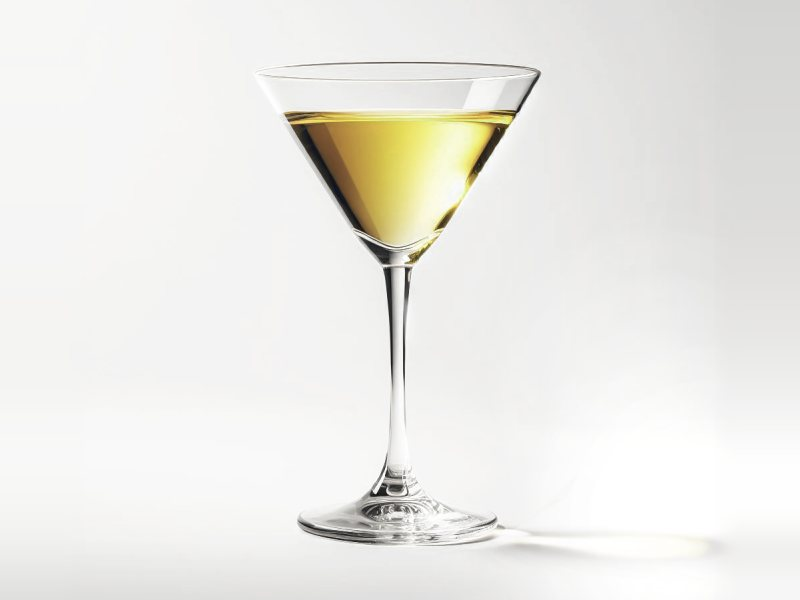
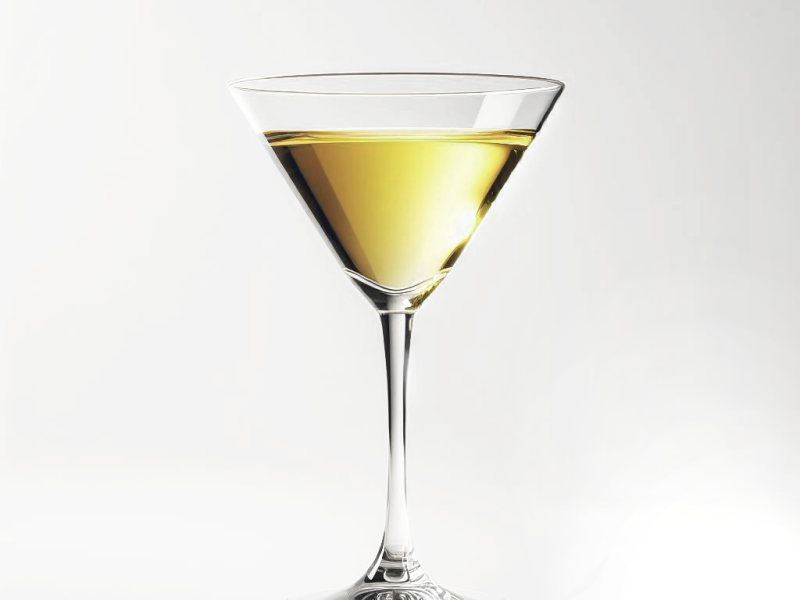
Photos retouchées, kirsch en remplaçant du marasquin (v0.38.1)
- Recadrage : on garde le haut et on coupe le bas plutôt que de générer les côtés ;
  côtés complétés seulement sur fond uni (Air Mail, Bellini, Brandy Crusta, Aperol Spritz)
  et un peu sur l'Aguapanela.
- Barracuda posé sur un fond papier turquoise, verre rendu transparent.
- Nouvelle photo d'Aguapanela (crédit à renseigner) ; photo Agua de piña (Whitney, CC BY 2.0).
- Brown Derby validé ('ok').
- Ingrédient Kirsch ; il remplace le marasquin dans les recettes, fiche du marasquin complétée.

Claude-Session: https://claude.ai/code/session_01MGrXtKPwEujzpoV9NF5CqB

diff --git a/infos.js b/infos.js
@@ -17,6 +17,7 @@ const INFOS = {
   armagnac: ["Eau-de-vie de vin du Sud-Ouest de la France (Gascogne), généralement distillée une seule fois, plus rustique que le cognac.", "Se garde très longtemps, bouteille fermée, debout, à l'abri de la lumière et de la chaleur.", "Plus charpenté et fruité que le cognac, qu'il remplace très bien, notamment dans les boissons chaudes et les cocktails de fin de repas."],
   calvados: ["Eau-de-vie de cidre (ou de poiré) de Normandie, vieillie en fût.", "Se garde très longtemps, bouteille fermée, debout, à l'abri de la lumière et de la chaleur.", "Goût de pomme cuite et de boisé. Réchauffe les cocktails d'automne et se marie à la cannelle, au miel, au citron et au gin."],
   pisco: ["Eau-de-vie de raisin du Pérou et du Chili, non vieillie ou très peu.", "Se garde très longtemps, bouteille fermée, debout, à l'abri de la lumière et de la chaleur.", "Floral, fruité et vif, avec un parfum de raisin frais. Excellent dans les sours, avec du citron vert et du blanc d'œuf."],
+  kirsch: ["Eau-de-vie de cerises (souvent griottes) distillées avec leurs noyaux, d'Alsace, de Franche-Comté, de Forêt-Noire ou de Suisse. Incolore et sèche, sans sucre ajouté.", OPEN_SPIRIT, "Cerise et noyau, sec et puissant. Le meilleur remplaçant du marasquin : en mettre autant et ajouter un trait de sirop de sucre pour compenser. Un peu suffit aussi à relever un cocktail au gin ou au cognac."],
   grappa: ["Eau-de-vie italienne issue du marc de raisin (peaux et pépins qui restent après le pressage du vin).", OPEN_SPIRIT, "Goût marqué, parfois herbacé. S'emploie avec parcimonie : en rinçage de verre ou en remplacement d'une partie d'un autre spiritueux."],
   gin: ["Spiritueux de céréales aromatisé au genièvre (baies de genévrier) et à d'autres plantes comme la coriandre ou les agrumes. Le style « London dry » est sec, sans sucre ajouté, et se produit dans le monde entier.", "Se garde très longtemps, bouteille fermée, debout, à l'abri de la lumière et de la chaleur.", "Sa fraîcheur de genièvre soutient les agrumes, les amers et les vermouths. Un London dry, sec et classique, convient à presque toutes les recettes."],
   "gin-old-tom": ["Style de gin ancien, légèrement sucré, entre le London dry et le genièvre néerlandais. Redevenu à la mode depuis les années 2010.", "Se garde très longtemps, bouteille fermée, debout, à l'abri de la lumière et de la chaleur.", "Plus rond et légèrement sucré qu'un London dry. Adoucit les cocktails au gin sans sirop supplémentaire."],
@@ -56,7 +57,7 @@ const INFOS = {
   "creme-cassis": ["Liqueur de cassis, spécialité de Dijon (Bourgogne), riche en sucre.", "Une fois ouverte, au réfrigérateur : 6 mois à 1 an. Peu alcoolisée (15 à 20 %), elle s'oxyde, brunit et perd son goût de fruit frais.", "Donne couleur et notes de baies noires. Se marie au vin blanc, aux bulles et au vermouth."],
   "liqueur-framboise": ["Liqueur de framboises. Le Chambord, la plus connue, utilise des framboises noires (Val de Loire).", "Une fois ouverte, au frais et à consommer dans l'année : le goût de fruit frais s'oxyde assez vite.", "Fruitée et sucrée. Va bien avec la vodka, l'ananas et les bulles."],
   "sloe-gin": ["Liqueur anglaise de gin infusé de prunelles (fruit du prunellier) et sucré.", "Plusieurs années bouteille fermée. Ouvert, à consommer dans les 1 à 2 ans, à l'abri de la lumière : le fruit s'atténue peu à peu.", "Acidulé, amandé, rouge rubis. S'emploie comme une liqueur de fruits rouges, souvent avec du citron."],
-  marasquin: ["Liqueur de cerises marasques, d'Italie ou de Croatie, incolore et légèrement amère.", "Plusieurs années, bouteille fermée et à l'abri de la lumière. Il s'utilise par petites doses : une bouteille dure longtemps sans souci.", "Cerise et amande amère, peu sucré mais très parfumé. Une petite dose suffit, sinon il domine."],
+  marasquin: ["Liqueur de cerises marasques, d'Italie ou de Croatie, incolore et légèrement amère.", "Plusieurs années, bouteille fermée et à l'abri de la lumière. Il s'utilise par petites doses : une bouteille dure longtemps sans souci.", "Cerise et amande amère, peu sucré mais très parfumé. Une petite dose suffit, sinon il domine. À défaut, le kirsch (avec un trait de sirop) est le remplaçant le plus proche ; une liqueur de cerise, plus sucrée et rouge, change la couleur du cocktail."],
   "liqueur-cerise": ["Liqueur de cerises, très variable selon l'origine (Danemark, Alsace, Italie).", "Une fois ouverte, au frais et à l'abri de la lumière : 1 à 2 ans. Son goût de fruit s'atténue avec le temps.", "Cerise et amande, ronde et sucrée. Peut remplacer le marasquin à petite dose, en sucrant un peu plus."],
   "liqueur-abricot": ["Liqueur d'abricots, faite à base de fruits ou d'eau-de-vie d'abricot.", "Une fois ouverte, au frais et à l'abri de la lumière : environ 1 an pour garder son parfum de fruit.", "Fruitée et florale. Adoucit les cocktails au gin ou au calvados."],
   "liqueur-peche": ["Liqueur de pêche, parfois de pêche blanche ou de pêche de vigne.", "Une fois ouverte, au frais et à l'abri de la lumière : environ 1 an pour garder son parfum de fruit.", "Fruitée et sucrée, pour les cocktails d'été. Renforce le goût d'une purée de pêche."],

diff --git a/data.js b/data.js
@@ -2,7 +2,7 @@
    Les étapes sont rédigées pour Zeste. */
 'use strict';
 
-const DATA_VERSION = 24;
+const DATA_VERSION = 25;
 
 /* Familles du bar, dans l'ordre d'affichage. Les sous-familles s'affichent en volets dépliables. */
 const FAMILIES = [
@@ -28,6 +28,7 @@ const INGREDIENTS = [
   ['calvados', 'Calvados', 'Eau-de-vie de pomme', 'Spiritueux', 'Brandy & cognac', 40],
   ['pisco', 'Pisco', 'Pisco', 'Spiritueux', 'Brandy & cognac', 40],
   ['grappa', 'Grappa', 'Grappa', 'Spiritueux', 'Brandy & cognac', 40],
+  ['kirsch', 'Kirsch', 'Kirsch', 'Spiritueux', 'Brandy & cognac', 40],
   ['gin', 'Gin London dry', 'Gin', 'Spiritueux', 'Gin', 40],
   ['gin-old-tom', 'Gin Old Tom', 'Gin', 'Spiritueux', 'Gin', 40],
   ['gin-contemporain', 'Gin contemporain', 'Gin', 'Spiritueux', 'Gin', 40],
@@ -1261,6 +1262,8 @@ const RECIPE_EDITS = {
   }
 };
 Object.keys(RECIPE_EDITS).forEach(id => { const r = RECIPES.find(x => x.id === id); if (r) Object.assign(r, RECIPE_EDITS[id]); });
+/* Le kirsch, sec et marqué par le noyau, est le meilleur remplaçant du marasquin (avec un trait de sirop pour le sucre). */
+RECIPES.forEach(r => r.ings.forEach(i => { if (i.id === 'marasquin' && !i.alts.includes('kirsch')) i.alts = [...i.alts, 'kirsch']; }));
 
 /* Photos des recettes : fichiers du dossier photos/ (4:3, 800 × 600, JPEG).
    Une recette sans entrée garde l'illustration du verre. */
@@ -1275,6 +1278,7 @@ const PHOTOS = {
   'mauresque-pomme': 'photos/mauresque-pomme.jpg',
   'adonis': 'photos/adonis.jpg',
   'agua-pepino': 'photos/agua-pepino.jpg',
+  'agua-pina': 'photos/agua-pina.jpg',
   'agua-sandia': 'photos/agua-sandia.jpg',
   'aguapanela': 'photos/aguapanela.jpg',
   'air-mail': 'photos/air-mail.jpg',
@@ -1337,8 +1341,8 @@ RECIPES.forEach(r => { if (PHOTOS[r.id]) r.photo = PHOTOS[r.id]; });
 const PHOTO_CREDITS = {
   'adonis': { by: 'Cocktailmarler', lic: 'CC BY-SA 4.0', url: 'https://commons.wikimedia.org/wiki/File:Adonis_Cocktail.JPG' },
   'agua-pepino': { by: 'T.Tseng', lic: 'CC BY 2.0', url: 'https://www.flickr.com/photos/68147320@N02/30255982132/' },
+  'agua-pina': { by: 'Whitney', lic: 'CC BY 2.0', url: 'https://flic.kr/p/8nwAXr' },
   'agua-sandia': { by: 'Joy', lic: 'CC BY 2.0', url: 'https://the-cooking-of-joy.blogspot.com/2014/07/watermelon-agua-fresca-and-popsicles.html' },
-  'aguapanela': { by: 'Mappa Stellae', lic: 'CC BY-SA 4.0', url: 'https://commons.wikimedia.org/wiki/File:Aguapanela_variante_fr%C3%ADa_con_lim%C3%B3n_verde.jpg' },
   'air-mail': { by: 'Matthias Friedlein', lic: 'CC BY-SA 4.0', url: 'https://commons.wikimedia.org/wiki/File:Air_Mail_Cocktail.png' },
   'alexander': { by: 'Jason Lam', lic: 'CC BY-SA 2.0', url: 'https://www.mightysweet.com/2008/10/17/take-on-me/' },
   'amaretto-sour': { by: 'Poul Hoang', lic: 'Licence Unsplash', url: 'https://unsplash.com/fr/photos/gros-plan-dun-verre-sur-une-table-1Q1XtVgzo0I' },
@@ -1405,8 +1409,8 @@ const PUBLIC_RELEASE = false;
 const PHOTO_STATUS = {
   'adonis': 'ok',
   'agua-pepino': 'ok',
+  'agua-pina': 'ok',
   'agua-sandia': 'ok',
-  'aguapanela': 'ok',
   'air-mail': 'ok',
   'alexander': 'ok',
   'amaretto-sour': 'ok',
@@ -1432,7 +1436,7 @@ const PHOTO_STATUS = {
   'bramble': 'ok',
   'brandy-crusta': 'ok',
   'breakfast-martini': 'ok',
-  'brown-derby': 'test'  // CC BY-ND 2.0 : pas de modification permise, or la photo est recadrée
+  'brown-derby': 'ok'
 };
 const photoState = id => PHOTO_STATUS[id] === 'ok' ? 'ok' : PHOTO_STATUS[id] === 'test' ? 'test' : 'unverified';
 if (PUBLIC_RELEASE) RECIPES.forEach(r => { if (r.photo && photoState(r.id) !== 'ok') { r.photo = ''; delete r.photoCredit; } });

diff --git a/app.js b/app.js
@@ -1,7 +1,7 @@
 /* Zeste : logique de l'application. Les données de départ sont dans data.js. */
 'use strict';
 
-const APP_VERSION = '0.38.0';
+const APP_VERSION = '0.38.1';
 const KEY = 'zeste-v1';
 const UNITS = ['ml', 'cl', ['oz', 'oz (→ ml)'], ['cup', 'cup (→ ml)'], 'g', ['', 'sans unité'], 'trait', 'goutte', 'c. de bar', 'c. à café', 'c. à soupe', 'pièce', 'feuille', 'brin', 'quartier', 'tranche', 'pincée', 'à compléter'];
 const PLURAL_UNITS = ['trait', 'goutte', 'pièce', 'feuille', 'brin', 'quartier', 'tranche', 'pincée'];

diff --git a/sw.js b/sw.js
@@ -1,6 +1,6 @@
 /* Zeste : fonctionnement hors ligne.
    Changer VERSION à chaque mise en ligne : les appareils proposent alors la mise à jour. */
-const VERSION = 'zeste-0.38.0';
+const VERSION = 'zeste-0.38.1';
 const ASSETS = [
   './', 'index.html', 'app.css', 'app.js', 'data.js', 'infos.js', 'manifest.webmanifest',
   'icons/icon.svg', 'icons/icon-192.png', 'icons/icon-512.png', 'icons/icon-maskable-192.png', 'icons/icon-maskable-512.png', 'icons/apple-touch-icon.png', 'icons/favicon-32.png',
